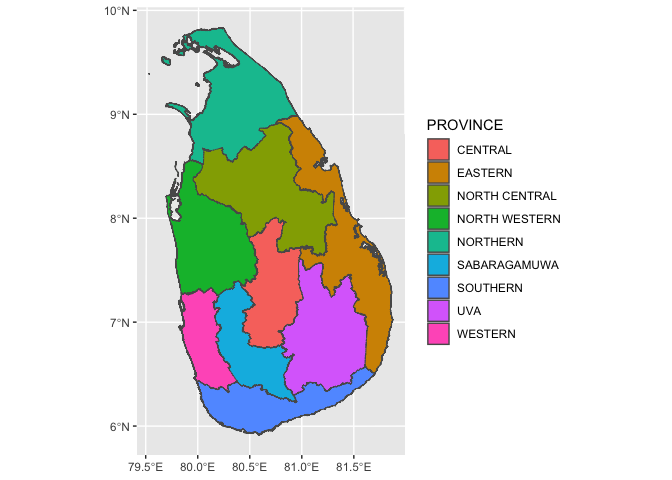
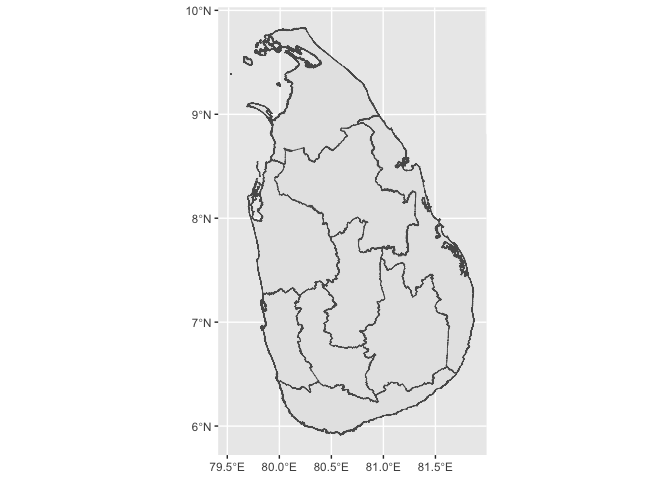
updated readme with examples

diff --git a/README.md b/README.md
@@ -20,11 +20,7 @@ You can install the development version from
 devtools::install_github("thiyangt/ceylon")
 ```
 
-## Example
-
-This is a basic example which shows you how to solve a common problem:
-
-### 1. Country level
+## 1. Country level
 
 ``` r
 library(ceylon)
@@ -53,7 +49,7 @@ ggplot(sf_sl_0) + geom_sf()
 
 <img src="man/figures/README-example-1.png" width="100%" />
 
-### 2. Provinces of Sri Lanka
+## 2. Provinces of Sri Lanka
 
 ``` r
 data(province)
@@ -75,29 +71,21 @@ province
 #> 7 (((481925.5 381353.7, 481922.9 381350.3, 481919 38… SOUTHERN Provi…    2669000
 #> 8 (((522825 568220.9, 522872.6 568217.7, 522926.1 56… UVA      Provi…    1387000
 #> 9 (((411888.2 438189.4, 411886.4 438182.3, 411881.7 … WESTERN  Provi…    6165000
-ggplot(province) + geom_sf(mapping = aes(fill = PROVINCE), show.legend = TRUE)
+ggplot(province) + geom_sf(mapping = aes(), show.legend = TRUE)
 ```
 
 <img src="man/figures/README-example0-1.png" width="100%" />
 
-### 3. Distribution of Population by Provinces
-
-``` r
-ggplot(province) + geom_sf(mapping = aes(fill = population), show.legend = TRUE) + scale_fill_viridis(option = "inferno")
-```
-
-<img src="man/figures/README-example1-1.png" width="100%" />
-
-### 4. Distribution of Population by Districts
+## 3. Districts in Sri Lanka
 
 ``` r
 data(district)
-ggplot(district) + geom_sf(aes(fill = population), show.legend = TRUE) +  scale_fill_viridis()
+ggplot(district) + geom_sf() +  scale_fill_viridis()
 ```
 
 <img src="man/figures/README-example2-1.png" width="100%" />
 
-### 5. Divisional secretariat
+## 4. Divisional secretariats in Sri Lanka
 
 ``` r
 data(sf_sl_3)
@@ -106,7 +94,7 @@ ggplot(sf_sl_3) + geom_sf()
 
 <img src="man/figures/README-example3-1.png" width="100%" />
 
-### Plotting river network
+## 5. Plotting river network in Sri Lanka
 
 ``` r
 data("rivers")
@@ -118,11 +106,69 @@ ggplot(data = sf_sl_0) +
 
 <img src="man/figures/README-unnamed-chunk-2-1.png" width="100%" />
 
+## Making different types of Maps
+
+### Choropleth Map
+
+``` r
+ggplot(province) + 
+  geom_sf(mapping = aes(fill = population), show.legend = TRUE) + scale_fill_viridis()
+```
+
+<img src="man/figures/README-unnamed-chunk-3-1.png" width="100%" />
+
+### Contiguous Cartogram
+
+``` r
+library(cartogram)
+library(sf)
+#> Linking to GEOS 3.10.2, GDAL 3.4.2, PROJ 8.2.1; sf_use_s2() is TRUE
+library(sp)
+cont <- cartogram_cont(province,
+                       weight = "population") |>
+                      st_as_sf()
+ggplot(cont) + 
+  geom_sf(aes(fill = population), colour = "white") + scale_fill_viridis()
+```
+
+<img src="man/figures/README-carto-1.png" width="100%" />
+
+### Non-Contiguous Cartogram
+
+``` r
+ncont <- cartogram_ncont(province,
+                       weight = "population") |>
+                      st_as_sf()
+ggplot(ncont) + 
+  geom_sf(data = province) +
+  geom_sf(aes(fill = population), colour = "white") + scale_fill_viridis()
+```
+
+<img src="man/figures/README-ncont-1.png" width="100%" />
+
+### Dorling Cartogram
+
+``` r
+dorl <- cartogram_dorling(province,
+                       weight = "population") |>
+                      st_as_sf()
+ggplot(dorl) + 
+  geom_sf(data = province) +
+  geom_sf(aes(fill = population), colour = "white") + scale_fill_viridis()
+```
+
+<img src="man/figures/README-dorl-1.png" width="100%" />
+
 ## Cite
 
 Talagala, T. S. (2023). ceylon: Creating Maps of Sri Lanka
 Administrative Regions, Rivers and Streams. Zenodo.
 <https://doi.org/10.5281/zenodo.10432141>
+
+### Working paper
+
+Talagala, T. S. (2024). ceylon: An R package for plotting the maps of
+Sri Lanka. arXiv preprint arXiv:2401.02467.
 
 ### Acknowledgement
 

diff --git a/paper/paper.md b/paper/paper.md
@@ -20,14 +20,14 @@ affiliations:
 
 # Summary
 
-The rapid evolution in the fields of computer science, data science, and artificial intelligence has significantly transformed the utilisation of data for decision-making. Data visualisation plays a critical role in any work that involves data. Visualising data on maps is frequently encountered in many fields. Visualising data on maps not only transforms raw data into visually comprehensible representations but also converts complex spatial information into simple, understandable form. Locating the data files necessary for map creation can be a challenging task. Establishing a centralised repository can alleviate the challenging task of finding shape files, allowing users to efficiently discover geographic data. The ceylon [@talagala2023ceylon] R package is designed to make simple feature data related to Sri Lanka's administrative boundaries and rivers and streams accessible for a diverse range of R [@team2023r] users. With straightforward functionalities, this package allows users to quickly plot and explore administrative boundaries and rivers and streams in Sri Lanka.
+The rapid evolution in the fields of computer science, data science, and artificial intelligence has significantly transformed the utilisation of data for decision-making. Data visualisation plays a critical role in any work that involves data. Visualising data on maps is frequently encountered in many fields. Visualising data on maps not only transforms raw data into visually comprehensible representations but also converts complex spatial information into simple, understandable form. Locating the data files necessary for map creation can be a challenging task. Establishing a centralised repository can alleviate the challenging task of finding shape files, allowing users to efficiently discover geographic data. The ceylon  R package is designed to make simple feature data related to Sri Lanka's administrative boundaries and rivers and streams accessible for a diverse range of R  users. With straightforward functionalities, this package allows users to quickly plot and explore administrative boundaries and rivers and streams in Sri Lanka.
 
 
 
 
 # Statement of Need
 
-The `ceylon` R package conveniently packages shape files corresponding to the geographic features of Sri Lanka, enhancing user friendliness for seamless integration and analysis. This allows for minimising the time spent on data searching and cleaning efforts. Hence, the package ceylon stands out as a catalyst for research efficiency. Furthermore, the package supports research reproducibility, allowing others to independently verify and build upon the work that utilised the data in this package. The data format easily integrates with tidyverse packages [@wickham2019welcome], fostering a smooth workflow.
+The `ceylon` R package [@talagala2023ceylon] conveniently packages shape files corresponding to the geographic features of Sri Lanka, enhancing user friendliness for seamless integration and analysis. This allows for minimising the time spent on data searching and cleaning efforts. Hence, the package ceylon stands out as a catalyst for research efficiency. Furthermore, the package supports research reproducibility, allowing others to independently verify and build upon the work that utilised the data in this package. The data format easily integrates with tidyverse packages [@wickham2019welcome], fostering a smooth workflow.
 
 
 # Datasets Available in the Package
